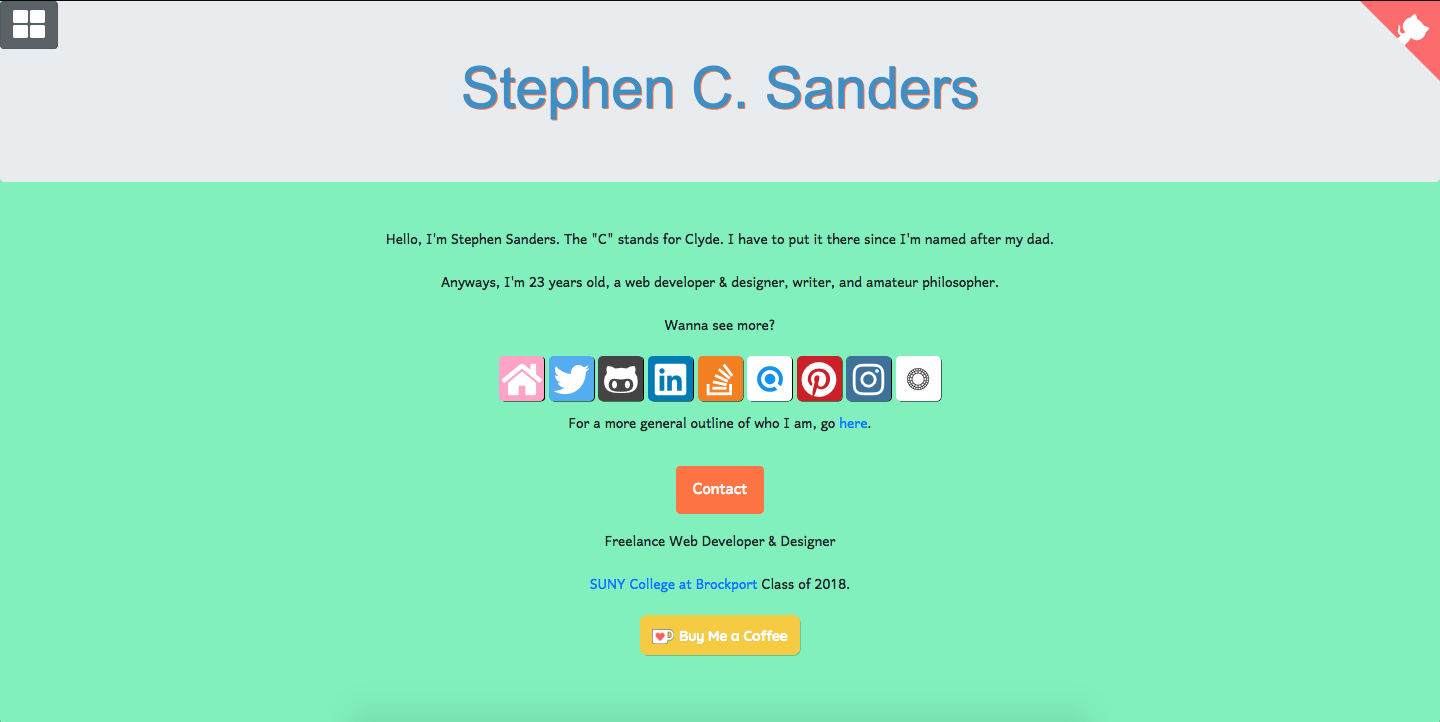
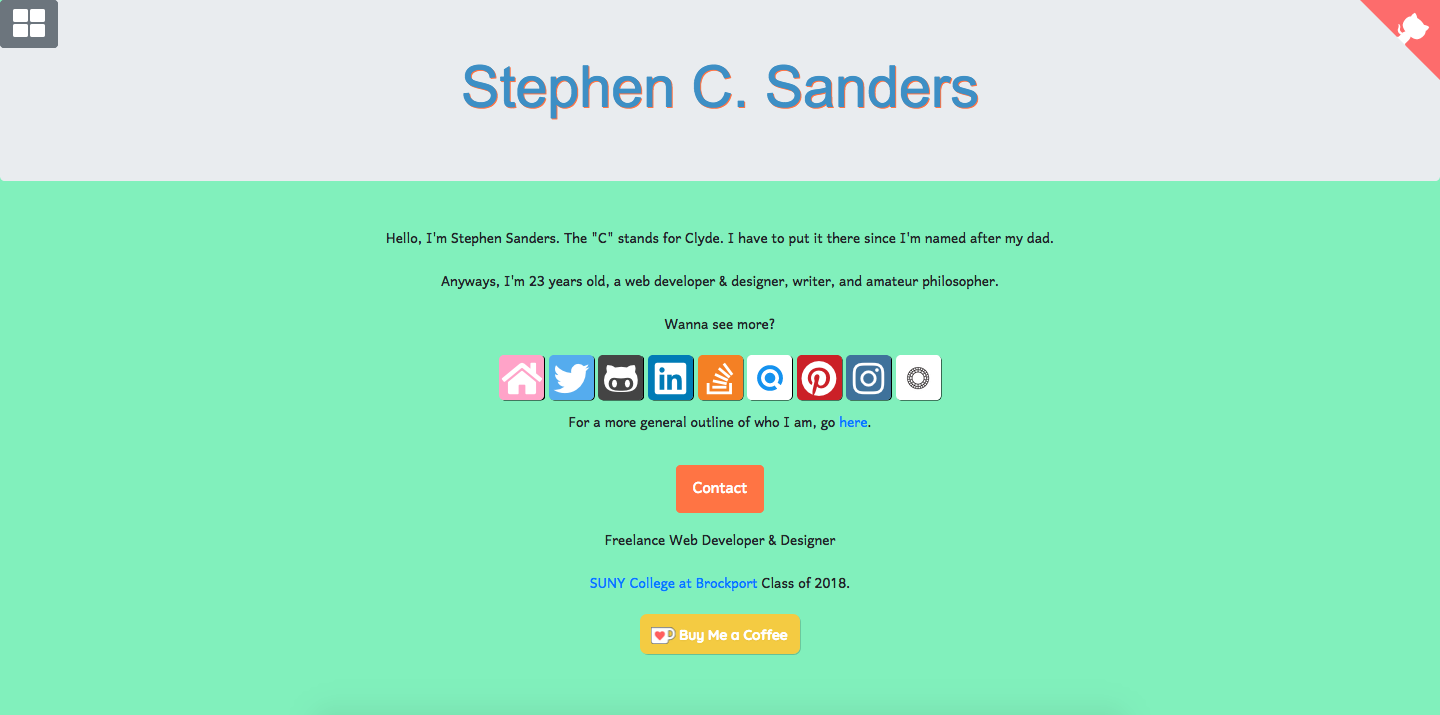
section styling fixes, project description edits, edited size of some project images

diff --git a/styles/main.css b/styles/main.css
@@ -1,1 +1,1 @@
-@import "https://fonts.googleapis.com/css2?family=Chelsea+Market&family=Noto+Sans";#body{overflow-x:hidden}#body h1,#body h2,#body h3,#body h4,#body h5,#body h6{font-family:"Chelsea Market",cursive}#body p{font-family:"Noto Sans",sans-serif}#body .seo-icon{display:none}#body .btn-stackoverflow{background-color:#F48024 !important;color:white !important}#body .btn-stackoverflow:hover{background-color:white !important;color:#F48024 !important;border-color:white !important}#body .btn-vsco{background-color:white !important}#body .btn-vsco:hover{color:white !important;background-color:#696969 !important;border-color:#696969 !important}#drop{float:left}.part{padding:25px 0}.part .sec-header{text-align:center;padding-bottom:25px;color:#FD6C6C}.main{background-image:url(../assets/img/background.jpg);background-position:center;background-repeat:no-repeat;height:100vh}@media screen and (max-width: 375px){.main{height:667px !important}}.main .container .row{justify-content:center}.main .container .row .main-info{position:relative;top:55%;transform:translateY(55%)}@media screen and (max-width: 440px){.main .container .row .main-info{top:30% !important;transform:translateY(30%) !important}}.main .container .row .main-info h1{font-size:55px;color:#BD2121}.main .container .row .main-info h3{font-size:22px;color:#FD6C6C}.main .container .row .main-info .nav-row{width:100%;padding:25px 0}.main .container .row .main-info .nav-row .nav-pills{margin:0 auto}.main .container .row .main-info .nav-row .nav-pills>li{float:none !important;display:inline-block !important;padding:0 5px}@media screen and (max-width: 605px){.main .container .row .main-info .nav-row .nav-pills>li{padding:2.5px 0 !important}}.main .container .row .main-info .nav-row .nav-pills>li>a{color:#981A61;background-color:white !important;font-size:18px !important;font-weight:bold;font-family:"Noto Sans",sans-serif}.main .container .row .main-info .nav-row .nav-pills>li>a:hover{color:white;background-color:#981A61 !important;text-decoration:none !important}.main .container .row .main-info .social-icons{padding:15px 0}.main .container .row .main-info .social-icons .btn-social-icon{margin:0 7.5px}.main .container .row .main-info .social-icons .btn-social-icon svg{margin-top:5px}.about-section .col-md-6 .about-img{text-align:center}@media screen and (max-width: 991px){.about-section .col-md-6 .about-img img{width:100%}}.about-section .col-md-6 .about-text{margin-top:25px}.about-section .col-md-6 .about-text p{line-height:1.5;font-size:1.5rem}.projects-section{background-color:#BD2121}.projects-section .col-md-4{padding:0 !important}.projects-section .col-md-4 .project{margin:7.5px 5px;background-color:white;border:1px solid black;box-shadow:2.5px 2.5px black}.projects-section .col-md-4 .project .project-img img.proj-img{width:100%;border-bottom:1px solid black}.projects-section .col-md-4 .project .project-info{margin:15px;text-align:center}.projects-section .col-md-4 .project .project-info .project-description .proj-info{margin:0 !important}.footer-section{padding:20px 0}.footer-section p{text-align:center;color:#981A61}@media screen and (max-width: 379px){.main-info h3{font-size:16px !important}}@media screen and (min-width: 380px) and (max-width: 569px){.main-info h1{font-size:45px !important}.main-info h3{font-size:18px !important}}@media screen and (max-width: 605px){.nav-pills>li{padding:2.5px 0 !important}}
+@import "https://fonts.googleapis.com/css2?family=Chelsea+Market&family=Noto+Sans";#body{overflow-x:hidden}#body h1,#body h2,#body h3,#body h4,#body h5,#body h6{font-family:"Chelsea Market",cursive}#body p{font-family:"Noto Sans",sans-serif}#body .seo-icon{display:none}#body .btn-stackoverflow{background-color:#F48024 !important;color:white !important}#body .btn-stackoverflow:hover{background-color:white !important;color:#F48024 !important;border-color:white !important}#body .btn-vsco{background-color:white !important}#body .btn-vsco:hover{color:white !important;background-color:#696969 !important;border-color:#696969 !important}#drop{float:left}.part{padding:45px 0}.part .sec-header{text-align:center;padding-bottom:25px;margin-top:0 !important;color:#FD6C6C}.main{background-image:url(../assets/img/background.jpg);background-position:center;background-repeat:no-repeat;height:100vh}@media screen and (max-width: 375px){.main{height:667px !important}}.main .container .row{justify-content:center}.main .container .row .main-info{position:relative;top:55%;transform:translateY(55%)}@media screen and (max-width: 440px){.main .container .row .main-info{top:30% !important;transform:translateY(30%) !important}}.main .container .row .main-info h1{font-size:55px;color:#BD2121}.main .container .row .main-info h3{font-size:22px;color:#FD6C6C}.main .container .row .main-info .nav-row{width:100%;padding:25px 0}.main .container .row .main-info .nav-row .nav-pills{margin:0 auto}.main .container .row .main-info .nav-row .nav-pills>li{float:none !important;display:inline-block !important;padding:0 5px}@media screen and (max-width: 605px){.main .container .row .main-info .nav-row .nav-pills>li{padding:2.5px 0 !important}}.main .container .row .main-info .nav-row .nav-pills>li>a{color:#981A61;background-color:white !important;font-size:18px !important;font-weight:bold;font-family:"Noto Sans",sans-serif}.main .container .row .main-info .nav-row .nav-pills>li>a:hover{color:white;background-color:#981A61 !important;text-decoration:none !important}.main .container .row .main-info .social-icons{padding:15px 0}.main .container .row .main-info .social-icons .btn-social-icon{margin:0 7.5px}.main .container .row .main-info .social-icons .btn-social-icon svg{margin-top:5px}.about-section .col-md-6 .about-img{text-align:center}@media screen and (max-width: 991px){.about-section .col-md-6 .about-img img{width:100%}}.about-section .col-md-6 .about-text{margin-top:25px}.about-section .col-md-6 .about-text p{line-height:1.5;font-size:1.5rem}.projects-section{background-color:#BD2121}.projects-section .col-md-4{padding:0 !important}.projects-section .col-md-4 .project{margin:7.5px 5px;background-color:white;border:1px solid black;box-shadow:2.5px 2.5px black}.projects-section .col-md-4 .project .project-img img.proj-img{width:100%;border-bottom:1px solid black}.projects-section .col-md-4 .project .project-info{margin:15px 7.5px;text-align:center}.projects-section .col-md-4 .project .project-info .project-description .proj-info{margin:0 !important}.footer-section{padding:20px 0}.footer-section p{text-align:center;color:#981A61}@media screen and (max-width: 379px){.main-info h3{font-size:16px !important}}@media screen and (min-width: 380px) and (max-width: 569px){.main-info h1{font-size:45px !important}.main-info h3{font-size:18px !important}}@media screen and (max-width: 605px){.nav-pills>li{padding:2.5px 0 !important}}

diff --git a/index.html b/index.html
@@ -105,13 +105,13 @@
                             <div class="info-container">
                                 <div class="project-info">
                                     <div class="project-title">
-                                        <h3>Willow Ridge Kennels Website</h3>    
+                                        <h3>Willow Ridge Kennels Site</h3>    
                                     </div>
                                     <div class="project-years">
                                         <h5 class="proj-yrs">Feb 2020 - Present</h5>
                                     </div>
                                     <div class="project-description">
-                                        <p class="proj-info">Willow Ridge Kennels of New York is a small bernedoodle breeding and training business located in Rochester, NY. I designed and developed a WordPress website for them using the Baesick WordPress theme, which uses HTML/SCSS and Bootstrap, and is hosted by BlueHost.</p>
+                                        <p class="proj-info">Willow Ridge Kennels of New York is a small bernedoodle breeding and training business located in Rochester, New York. I designed and developed a WordPress website for them using the Baesick WordPress theme, which uses HTML/SCSS and Bootstrap, and is hosted by BlueHost.</p>
                                     </div>
                                 </div>
                             </div>
@@ -131,7 +131,7 @@
                                     <h5 class="proj-yrs">Feb 2020 - Present</h5>
                                 </div>
                                 <div class="project-description">
-                                    <p class="proj-info">The Baesick WordPress theme is a responsive, highly customizable starter theme that is forked from <a href="https://github.com/wycks/WP-Skeleton-Theme" target="_blank">wycks' WP Skeleton Theme</a>. Originally only developed with support for the Skeleton CSS framework, I added support for the Bootstrap framework and completely overhauled the design to make it look more modern and stylish.</p>
+                                    <p class="proj-info">The Baesick WordPress theme is a responsive, customizable starter theme that is forked from <a href="https://github.com/wycks/WP-Skeleton-Theme" target="_blank">wycks' WP Skeleton Theme</a>. Originally only developed with support for the Skeleton CSS framework, I added support Bootstrap and completely overhauled the design to make it look more modern and stylish.</p>
                                 </div>
                             </div>
                         </div>
@@ -140,7 +140,7 @@
                     <div class="col-md-4">
                         <div class="project">
                             <div class="project-img">
-                                <a href="https://github.com/complxalgorithm/complxalgorithm.github.io" target="_blank"><img src="./assets/img/projs/former-personal-website.png" alt="screenshot of former personal website" class="proj-img" /></a>
+                                <a href="https://github.com/complxalgorithm/former-personal-website" target="_blank"><img src="./assets/img/projs/former-personal-website.png" alt="screenshot of former personal website" class="proj-img" /></a>
                             </div>
                             <div class="project-info">
                                 <div class="project-title">
@@ -150,7 +150,7 @@
                                     <h5 class="proj-yrs">Jul 2016 - Jun 2020</h5>
                                 </div>
                                 <div class="project-description">
-                                    <p class="proj-info">My old personal website was developed out of a desire not only to have a single place to put all of the information about me, but to practice developing a website entirely on my own. This website was built using HTML/CSS, Bootstrap, and JS/jQuery, and was hosted using GitHub Pages.</p>
+                                    <p class="proj-info">My old personal website was developed out of a desire not only to have a single place to put all of the information about me, but to practice designing and developing a website entirely on my own. This website was built using HTML/CSS, Bootstrap, and JS/jQuery, and was hosted using GitHub Pages.</p>
                                 </div>
                             </div>
                         </div>
@@ -165,7 +165,7 @@
                             </div>
                             <div class="project-info">
                                 <div class="project-title">
-                                    <h3>Buffalo Firefighters Website</h3>    
+                                    <h3>Buffalo Firefighters Site</h3>    
                                 </div>
                                 <div class="project-years">
                                     <h5 class="proj-yrs">Jun 2017 - Sep 2017</h5>
@@ -190,7 +190,7 @@
                                     <h5 class="proj-yrs">Nov 2016 - Jun 2017</h5>
                                 </div>
                                 <div class="project-description">
-                                    <p class="proj-info">Writer is a very small and barely complete project that combines a text editor and an in-browser, basic web technologies code editor that I developed using HTML/CSS ad JavaScript. The notes that are written in the text editor are added to localstorage, and the code editor will output all HTML/CSS and JavaScript to a screen at the bottom of the page. This project is hosted by GitHub Pages.</p>
+                                    <p class="proj-info">Writer is a very small and barely complete project that combines a text editor and an in-browser, basic web code editor that I developed using HTML/CSS ad JavaScript. The notes that are written in the text editor are added to localstorage, and the code editor will output all HTML/CSS and JS to a screen at the bottom of the page. This project is hosted by GitHub Pages.</p>
                                 </div>
                             </div>
                         </div>

diff --git a/styles/scss/main.scss b/styles/scss/main.scss
@@ -50,11 +50,12 @@
 
 // GENERAL SECTION STYLES
 .part {
-    padding: 25px 0;
+    padding: 45px 0;
     
     .sec-header {
         text-align: center;
         padding-bottom: 25px;
+        margin-top: 0 !important;
         color: $tertiary-color;
     }
 }
@@ -189,7 +190,7 @@
             }
             
             .project-info {
-                margin: 15px;
+                margin: 15px 7.5px;
                 text-align: center;
                 
                 .project-title {
